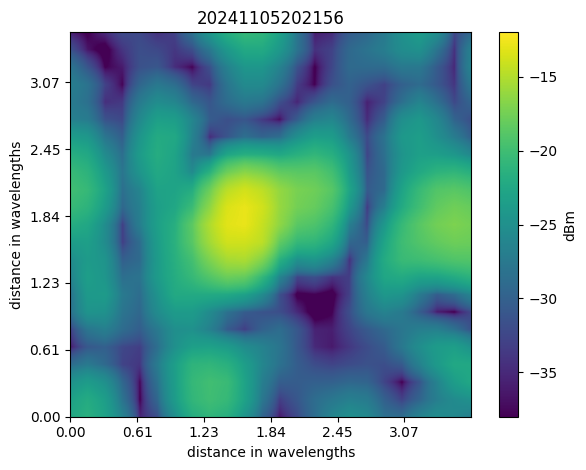
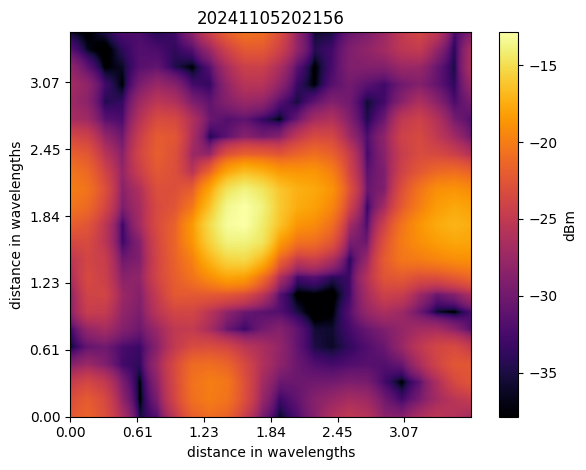
update figs

diff --git a/02_reciprocity_based_WPT/processing/plot_2d.py b/02_reciprocity_based_WPT/processing/plot_2d.py
@@ -15,6 +15,8 @@ from scipy.ndimage import zoom
 
 to_plot = ["20241105202156"]  # "bf-ceiling-grid",
 
+cmap = "inferno"
+
 log_heatmap = np.zeros(len(to_plot)).tolist()
 
 wavelen = 3e8 / 920e6
@@ -40,7 +42,9 @@ for i, tp in enumerate(to_plot):
 
     for i_x, grid_along_y in enumerate(grid_pos_ids):
         for i_y, grid_along_xy_ids in enumerate(grid_along_y):
-            heatmap[i_x, i_y] = np.mean([10**(values[_id]/10) for _id in grid_along_xy_ids])
+            heatmap[i_x, i_y] = np.mean(
+                [10 ** (values[_id] / 10) for _id in grid_along_xy_ids]
+            )
             if 0 in grid_along_xy_ids:
                 x_bf = i_x
                 y_bf = i_y
@@ -51,10 +55,10 @@ for i, tp in enumerate(to_plot):
     plt.title(tp)
     upsampled_heatmap = zoom(heatmap, zoom=zoom_val, order=1)
     plt.imshow(
-        10 * np.log10(upsampled_heatmap) + 10,  # + 10 to account for the cable loss
-        vmin=-48 + 10,
-        vmax=-22 + 10,
-        cmap="viridis",
+        10 * np.log10(upsampled_heatmap) + 10,  # + 10 to account for
+        vmin=np.max(10 * np.log10(upsampled_heatmap) + 10) - 25,
+        vmax=None,
+        cmap=cmap,
         origin="lower",
     )
     plt.gca().set_xticks(
@@ -65,7 +69,9 @@ for i, tp in enumerate(to_plot):
         zoom_val * np.arange(len(yi))[::4],
         labels=[f"{(y-yi[0])/wavelen:.2f}" for y in yi][::4],
     )
-    ax.add_patch(Rectangle((y_bf-0.5, x_bf-0.5), 1, 1, fill=False, edgecolor="red", lw=3))
+    ax.add_patch(
+        Rectangle((y_bf - 0.5, x_bf - 0.5), 1, 1, fill=False, edgecolor="red", lw=3)
+    )
     plt.colorbar(label="dBm")
     # cbar.ax.set_ylabel("dBm")
     plt.xlabel("distance in wavelengths")
@@ -79,7 +85,9 @@ for i, tp in enumerate(to_plot):
     fig, ax = plt.subplots()
     plt.title(tp)
     upsampled_heatmap = zoom(heatmap, zoom=zoom_val, order=1)
-    p = ax.imshow(upsampled_heatmap * 1000 * 10, cmap="viridis", origin="lower") # * 10 to account for the cable loss
+    p = ax.imshow(
+        upsampled_heatmap * 1000 * 10, cmap=cmap, origin="lower"
+    )  # * 10 to account for the cable loss
     ax.set_xticks(
         zoom_val * np.arange(len(xi))[::4],
         labels=[f"{(x-xi[0])/wavelen:.2f}" for x in xi][::4],
@@ -96,7 +104,6 @@ for i, tp in enumerate(to_plot):
     ax.set_xlabel("distance in wavelengths")
     ax.set_ylabel("distance in wavelengths")
     fig.tight_layout()
-
     plt.savefig(
         f"../results/{tp}/heatmap-uW.png", bbox_inches="tight", transparent=True
     )

diff --git a/03_geometry_based_beamforming/031_Friis/processing/beamform.py b/03_geometry_based_beamforming/031_Friis/processing/beamform.py
@@ -13,6 +13,9 @@ PLOT_ONLE_ACTIVE_TILES = True
 
 positions_url = r"https://raw.githubusercontent.com/techtile-by-dramco/plotter/refs/heads/main/src/TechtilePlotter/positions.yml"
 
+cmap = "inferno"
+
+
 # TODO extract from experiment description file
 active_tiles = [
     "A05",
@@ -142,7 +145,7 @@ print(f"Path Gain at UE is {PG_EN:.2f} dB")
 # Plot scenario
 plt.figure()
 PG_dB = 10 * np.log10(np.abs(y) ** 2)
-plt.imshow(PG_dB+3.6, extent=[X_MIN, X_MAX, Y_MIN, Y_MAX], origin="upper", aspect="auto")
+plt.imshow(PG_dB+3.6, extent=[X_MIN, X_MAX, Y_MIN, Y_MAX], origin="upper", aspect="auto", cmap=cmap)
 # plt.plot(p_EN[0], p_EN[1], "bo", markersize=10)
 plt.colorbar(label="Rx power in dBm")
 
@@ -163,7 +166,7 @@ plt.gca().add_patch(rect)
 
 plt.xlabel("x in m")
 plt.ylabel("y in m")
-plt.clim(-48, None)
+plt.clim(np.max(PG_dB) - 25, None)
 plt.title("Friis [tx 3.6dBm]")
 # plt.grid(True)
 plt.tight_layout()
@@ -174,7 +177,7 @@ plt.show()
 plt.figure()
 PG_dB = 10 * np.log10(np.abs(y) ** 2)
 plt.imshow(
-    10**((PG_dB + 3.6)/10)*1000, extent=[X_MIN, X_MAX, Y_MIN, Y_MAX], origin="upper", aspect="auto"
+    10**((PG_dB + 3.6)/10)*1000, extent=[X_MIN, X_MAX, Y_MIN, Y_MAX], origin="upper", aspect="auto",cmap=cmap
 )
 # plt.plot(p_EN[0], p_EN[1], "bo", markersize=10)
 plt.colorbar(label="Rx power in uW")
